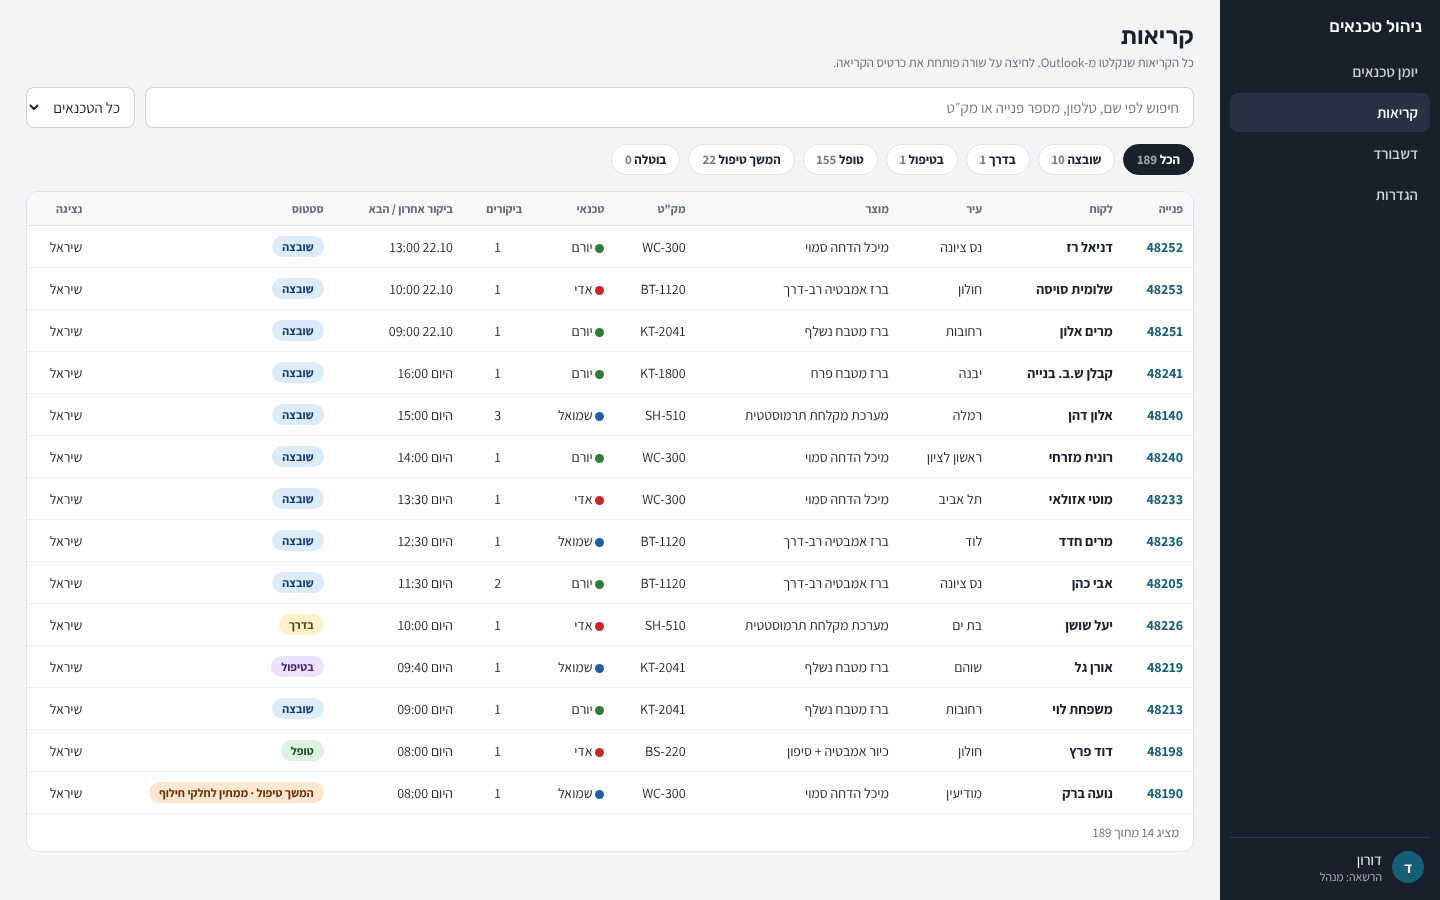
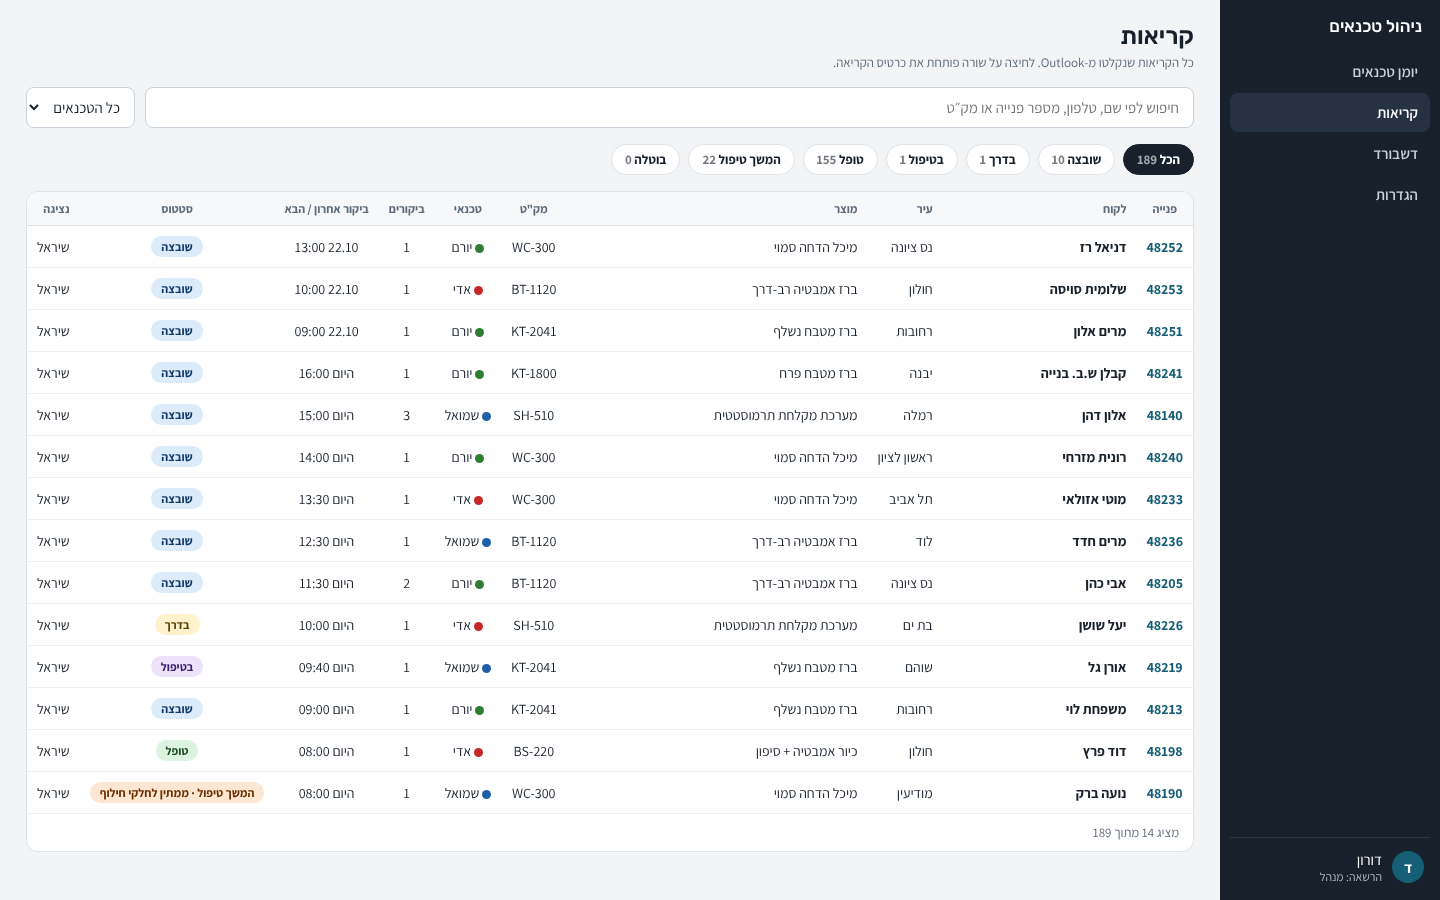
docs(review): Step 0 screenshots after visual review round 1
Regenerated from a local production build of commit 76b4aa2 (fictitious
data only): technician card at 820 / 1440, calls table at 390 / 820 /
1440, and the size view.

Code written by Claude Code under the owner's direction.

Claude-Session: https://claude.ai/code/session_01CCsEFqAXrUKXC3pfzB3yyJ

diff --git a/docs/review/step-0/README.md b/docs/review/step-0/README.md
@@ -1,7 +1,7 @@
 # Step 0 review screenshots
 
 Fictitious data only. Taken with `npm run screenshots` (Playwright, Chromium) from a local production
-build of commit `0f62168`, at 390 x 844, 820 x 1180 and 1440 x 900 px. Demo references come from
+build of commit `76b4aa2`, at 390 x 844, 820 x 1180 and 1440 x 900 px. Demo references come from
 `docs/demo.html` with its demo bar hidden.
 
 | Width | Technician shell | Office shell | Other |
@@ -13,4 +13,5 @@ build of commit `0f62168`, at 390 x 844, 820 x 1180 and 1440 x 900 px. Demo refe
 Expected differences from the demo: the pickup card (Step 3) and the Excel button (PENDING OF-14) are not
 in Step 0; the manager navigation includes Settings (SE-03); the office table shows 14 sample rows; the
 technician layout above 900 px continues the tablet layout with header and navigation content on the
-760 px column (TE-31); the bottom navigation stays at the bottom of the screen (TE-32). Both approved 2026-11-02.
+760 px column (TE-31); the bottom navigation stays at the bottom of the screen (TE-32). Both approved 2026-11-02. Visual review round 1 (2026-11-02): next-visit card actions 50/50 from
+600 px (TE-33); table column alignment and sizing (G-07).
